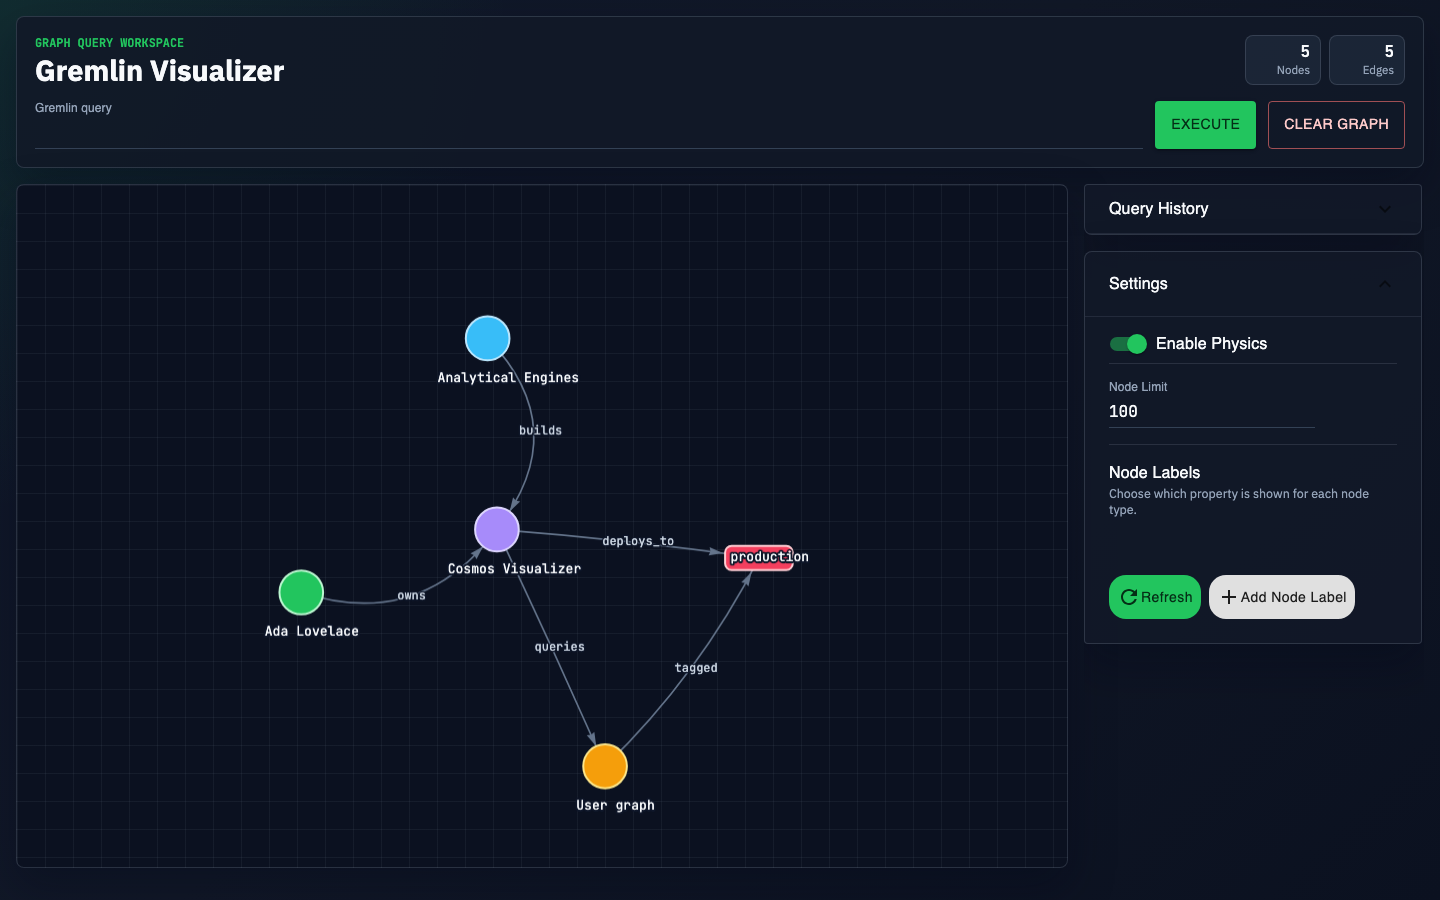
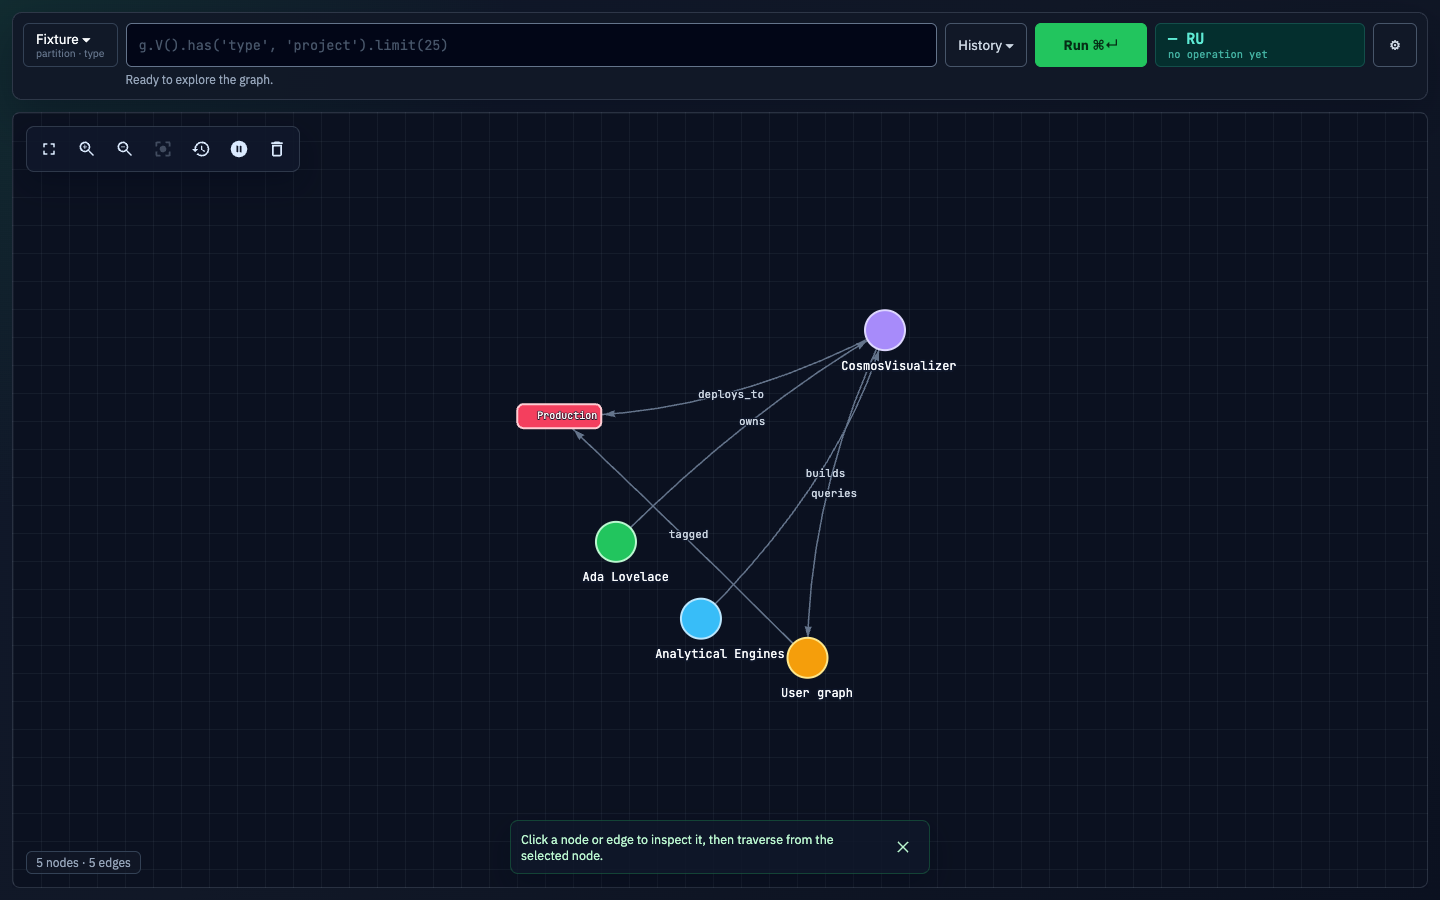
docs: describe the new workspace and refresh screenshots
- README features, quick start, connection and error-recovery sections match the top bar and inspector layout
- Re-capture the three screenshots from fixture mode; note the demo recording predates the layout
- Ignore .superpowers/ scratch and commit the preview launch config (pins the proxy to 3001)

diff --git a/README.md b/README.md
@@ -12,7 +12,7 @@ CosmosVisualizer is a local React workspace for exploring Azure Cosmos DB Gremli
 
 ## Demo
 
-The fixture-mode demo shows the credential-free query path pulling a graph with `g.V().limit(25)`.
+The fixture-mode demo shows the credential-free query path pulling a graph with `g.V().limit(25)`. The recording predates the October 2026 workspace layout (top bar and floating inspector); the screenshots below show the current UI.
 
 ![Fixture-mode demo recording](.github/assets/cosmos-visualizer-demo.webp)
 
@@ -23,6 +23,10 @@ A source H.264 MP4 is also available:
 GitHub does not reliably render committed `.mp4` files inline in README files. For a native inline GitHub video player, upload `.github/assets/cosmos-visualizer-demo.mp4` through a GitHub issue, pull request, or README web-editor attachment flow, then paste the generated `https://github.com/user-attachments/assets/...` URL here on its own line.
 
 ## Screenshots
+
+### Workspace
+
+![Fixture workspace](.github/assets/cosmos-visualizer-overview.png)
 
 ### Fixture Query Result
 
@@ -47,11 +51,13 @@ Open:
 http://localhost:5173
 ```
 
-Run:
+Fixture mode seeds a small demo graph as soon as the page loads. Type a query into the top bar and press **Run** (or ⌘↵ / Ctrl+↵):
 
 ```groovy
 g.V().limit(25)
 ```
+
+Click a node to open the inspector card, then traverse from it.
 
 Fixture mode sets `USE_FIXTURE_DATA=true` for the proxy process. Do not use fixture mode when validating a real Cosmos DB connection.
 
@@ -97,24 +103,22 @@ npm start
 
 The proxy reads `.env` from the project root on startup. Variables already set in your shell take precedence, so `npm run start:fixture` still works with a `.env` that sets `USE_FIXTURE_DATA=false`.
 
-The Vite dev server runs on port `5173`; the API proxy defaults to port `3001`. Both listen on loopback only, so the proxy and your Cosmos key are not reachable from other machines on your network. Set `HOST` only if you deliberately need to expose the proxy. All five Cosmos variables are required for an automatic startup connection. If one is missing or invalid (for example an endpoint that is not a `wss://` URL), the server logs a warning, starts in disconnected mode, and the browser can establish a connection with the **Switch** action.
+The Vite dev server runs on port `5173`; the API proxy defaults to port `3001`. Both listen on loopback only, so the proxy and your Cosmos key are not reachable from other machines on your network. Set `HOST` only if you deliberately need to expose the proxy. All five Cosmos variables are required for an automatic startup connection. If one is missing or invalid (for example an endpoint that is not a `wss://` URL), the server logs a warning, starts in disconnected mode, and the browser can establish a connection from the connection chip at the left of the top bar.
 
 The partition-key setting accepts a property name such as `type` or `/type`. It is used for partition display, probe construction, and best-effort fan-out advisories; CosmosVisualizer does not infer it from the graph schema.
 
 ## Features
 
-- Credential-free startup with a seeded demo graph.
-- Fixture mode for pulling a sample graph with `g.V().limit(25)`.
+- Credential-free fixture mode with a seeded demo graph. Real Cosmos connections start empty and spend no RUs until you run a query.
 - Cosmos-native query proxy that keeps database credentials server-side.
 - In-app connection switching without restarting the local proxy.
+- A single top bar: connection chip, multi-line query editor (⌘↵ / Ctrl+↵ to run, ↑/↓ to recall history), history menu, RU readout, and settings.
 - Per-operation RU totals with vertex/edge request breakdowns when Cosmos returns charge metadata.
-- Vertex partition-key metadata in table and JSON inspectors.
-- Advisory warnings for query patterns and inbound traversals that may fan out across partitions.
-- Dark graph workspace with node and edge counters.
-- Interactive `vis-network` graph rendering with directed edge labels.
-- Query history, graph clearing, physics toggling, and node-limit controls.
+- One message line for status, partition fan-out advisories, and errors, with recovery actions such as **Edit query**, **Retry**, and **Switch connection**.
+- Full-width `vis-network` canvas with fit, zoom, center, reset, physics, and clear-graph controls.
+- A floating inspector card for the selected node or edge: partition chip, copyable id, traversal actions, unwrapped Cosmos property values, and a raw JSON view.
+- The selected node is kept clear of the inspector card when you select it or fit the view.
 - Configurable node display labels by vertex type and property field.
-- Selected-node and selected-edge inspection with traversal actions.
 
 ## How It Works
 
@@ -127,7 +131,9 @@ The browser posts `{ query, nodeLimit }` to `/query`. The proxy submits the vert
 
 One graph operation can make separate vertex and edge requests. CosmosVisualizer sums both charges for the displayed operation total and keeps the breakdown visible; missing provider metadata is reported as unavailable rather than zero. A successful connection switch clears graph data, selection, and the prior operation charge while preserving query text and history. A failed probe leaves the existing connection and graph untouched.
 
-In fixture mode, the proxy uses a deterministic in-memory client with stable request charges and `type` partition values. It exercises the same manager, query, traversal, and diagnostics paths without Azure credentials.
+In fixture mode, the proxy uses a deterministic in-memory client with stable request charges and `type` partition values. It exercises the same manager, query, traversal, and diagnostics paths without Azure credentials. It also rejects queries with unbalanced brackets or quotes the way Cosmos rejects malformed Gremlin, so error recovery can be tried locally.
+
+When Cosmos reports a Gremlin syntax or compilation error, the proxy returns `400 COSMOS_QUERY_REJECTED` and the UI offers **Edit query**; other Cosmos failures return `500` and offer **Retry**, which repeats the last query or traversal.
 
 ## Query Behavior
 
@@ -143,7 +149,7 @@ Normalized vertices retain their ordinary properties and also expose dedicated p
 
 ## Connection Switching And Credentials
 
-The compact header status shows `Fixture`, `Disconnected`, or the active Cosmos endpoint host, database, and container. Select **Switch** to enter an endpoint, primary key, database, container, and partition-key property. The server validates and probes the candidate before activating it.
+The connection chip at the left of the top bar shows `Fixture`, `Disconnected`, or the active Cosmos endpoint host, database, and container, with the partition-key property underneath. Select it to enter an endpoint, primary key, database, container, and partition-key property. The server validates and probes the candidate before activating it.
 
 Connection details entered in the UI are held only in memory for this local, single-user process. The primary key is sent once to the local proxy, is never placed in Redux, diagnostics, history, response payloads, or browser persistence, and is cleared from the modal after submission or dismissal. The active Gremlin driver necessarily retains authentication material in server process memory until that connection is replaced or the server stops.
 
@@ -211,7 +217,7 @@ node --check src/server/queryDiagnostics.js
 npm audit --omit=dev
 ```
 
-Then run `npm run start:fixture` and smoke test the Fixture status, deterministic RU totals, query advisories, partition values, graph rendering, item selection, query history, graph clearing, connection modal key clearing, and inbound/outbound traversal diagnostics in the browser.
+Then run `npm run start:fixture` and smoke test in the browser: the Fixture connection chip, the seeded graph, deterministic RU totals, the message line (status, advisories, and the **Edit query** recovery for a malformed query), the inspector card and its partition chip, history recall and the history menu, graph clearing, connection-dialog key clearing, and inbound/outbound traversal diagnostics.
 
 ## License
 
